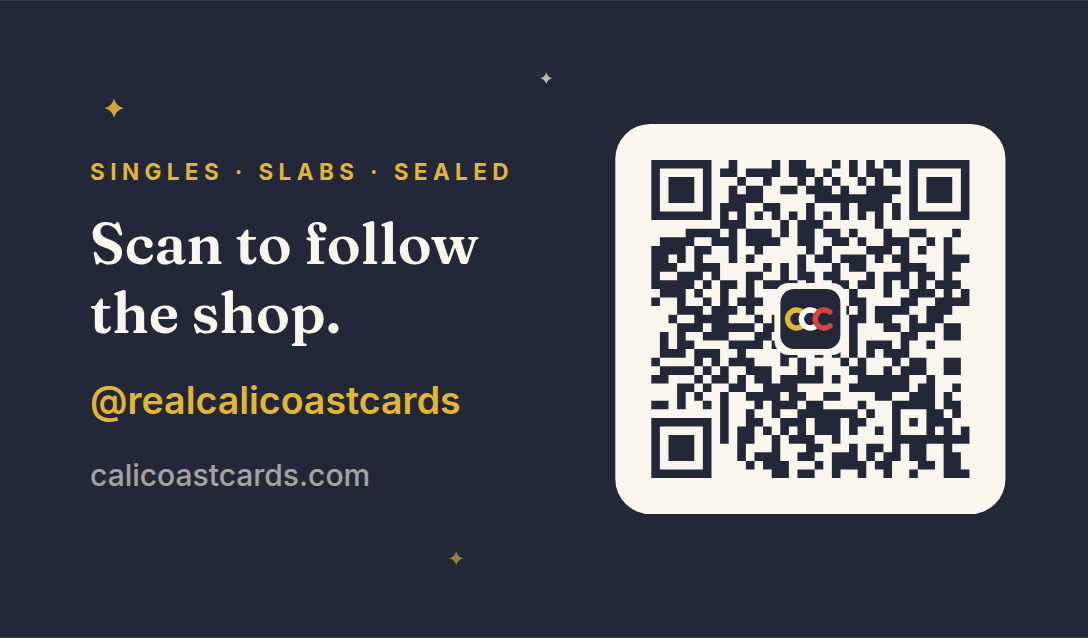
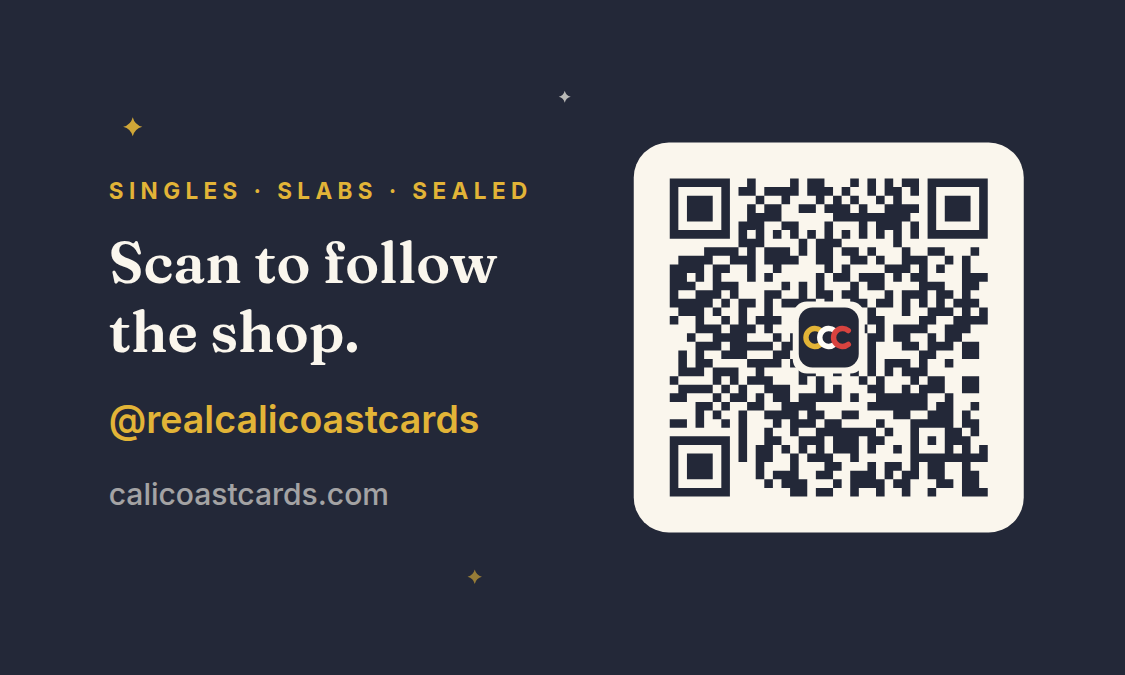
Increase business card bleed to 1/8 inch per side
Canvas is now 3.75x2.25in (1125x675 at 300 dpi) around the same
3.5x2in trim, for print uploaders that require full 0.125in bleed.

Claude-Session: https://claude.ai/code/session_011qhPkhG6ZK8KHXgo3yVg1U

diff --git a/tools/build-cards.js b/tools/build-cards.js
@@ -107,11 +107,11 @@ const defs = `
     <clipPath id="rc"><rect x="-19" y="-26.5" width="38" height="53" rx="3.5"/></clipPath>
   </defs>`;
 
-/* ---- FRONT: 3.625 x 2.125 in (trim 3.5 x 2 + 1/16" bleed per side), 100 units/in ---- */
-const front = `<svg xmlns="http://www.w3.org/2000/svg" width="3.625in" height="2.125in" viewBox="0 0 362.5 212.5">
-  <!-- Cali Coast Cards business card FRONT. Trim 3.5x2in; 0.0625in bleed each side. -->
+/* ---- FRONT: 3.75 x 2.25 in (trim 3.5 x 2 + 1/8" bleed per side), 100 units/in ---- */
+const front = `<svg xmlns="http://www.w3.org/2000/svg" width="3.75in" height="2.25in" viewBox="-6.25 -6.25 375 225">
+  <!-- Cali Coast Cards business card FRONT. Trim 3.5x2in; 0.125in bleed each side. -->
   ${defs}
-  <rect width="362.5" height="212.5" fill="${CREAM}"/>
+  <rect x="-6.25" y="-6.25" width="375" height="225" fill="${CREAM}"/>
   ${sparkle(318, 44, 4, GOLD, 0.85)}
   ${sparkle(340, 168, 2.6, RED, 0.55)}
   ${fan(92, 106, 1.02)}
@@ -122,9 +122,9 @@ const front = `<svg xmlns="http://www.w3.org/2000/svg" width="3.625in" height="2
 </svg>`;
 
 /* ---- BACK ---- */
-const back = `<svg xmlns="http://www.w3.org/2000/svg" width="3.625in" height="2.125in" viewBox="0 0 362.5 212.5">
+const back = `<svg xmlns="http://www.w3.org/2000/svg" width="3.75in" height="2.25in" viewBox="-6.25 -6.25 375 225">
   <!-- Cali Coast Cards business card BACK. QR -> ${URL} -->
-  <rect width="362.5" height="212.5" fill="${NAVY}"/>
+  <rect x="-6.25" y="-6.25" width="375" height="225" fill="${NAVY}"/>
   ${sparkle(38, 36, 3.2, GOLD, 0.9)}
   ${sparkle(182, 26, 2, "#FAF6ED", 0.7)}
   ${sparkle(152, 186, 2.4, GOLD, 0.6)}

diff --git a/tools/render-cards.js b/tools/render-cards.js
@@ -9,8 +9,8 @@ const SCRATCH = require("os").tmpdir();
 const REPO = require("path").resolve(__dirname, "..");
 
 const ASSETS = [
-  { svg: "print/business-cards/card-front.svg", png: "print/business-cards/card-front.png", w: 1088, h: 638, qr: false },
-  { svg: "print/business-cards/card-back.svg", png: "print/business-cards/card-back.png", w: 1088, h: 638, qr: true },
+  { svg: "print/business-cards/card-front.svg", png: "print/business-cards/card-front.png", w: 1125, h: 675, qr: false },
+  { svg: "print/business-cards/card-back.svg", png: "print/business-cards/card-back.png", w: 1125, h: 675, qr: true },
   { svg: "print/signs/instagram-qr-sign.svg", png: "print/signs/instagram-qr-sign.png", w: 2550, h: 3300, qr: true },
   { svg: "art/qr-instagram.svg", png: "art/qr-instagram.png", w: 1000, h: 1000, qr: true },
 ];

diff --git a/print/business-cards/README.md b/print/business-cards/README.md
@@ -15,10 +15,10 @@ decode correctly at print resolution.
 
 ## Specs (already baked in)
 
-- Trim size **3.5" × 2"** (US standard), files are **3.625" × 2.125"** with
-  1/16" bleed on each side — backgrounds run to the edge, text stays in the
+- Trim size **3.5" × 2"** (US standard), files are **3.75" × 2.25"** with
+  1/8" bleed on each side — backgrounds run to the edge, text stays in the
   safe zone.
-- PNGs are **300 dpi** (1088 × 638). Most printers accept PNG directly.
+- PNGs are **300 dpi** (1125 × 675). Most printers accept PNG directly.
 - QR is error-correction **H** (30% redundancy — survives the logo overlay
   and light print wear). Verified with a decoder before every reorder is a
   good habit: `node tools/render-cards.js` re-checks automatically.
